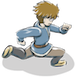
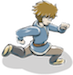
sizes of images of player modified, player and ax starting position  changed with a rounding to 5

diff --git a/game/player.js b/game/player.js
@@ -9,9 +9,9 @@ function Player(gameHeight, gameWidth) { // this --> Player
     this.srcX = 0; // переменные, которые используются для задания координат в графическом файле
     this.srcY = 0;
     this.drawX = 250; // рисование объекта
-    this.drawY = Math.floor(Math.random() * gameHeight);
-    this.width = 75; // проверить после смены рисунка
-    this.height = 77;
+    this.drawY = randomFive(Math.floor(Math.random() * (gameHeight-100)));
+    this.width = 73; // проверить после смены рисунка
+    this.height = 75;
     // часть, связанная с апдэйтом
     this.speed = 5;
     // для управления с клавиатуры - переменные, отвечающие за перемещение объекта
@@ -152,16 +152,18 @@ Player.prototype.update = function(ax, trees, audio) {
     else {
         Tree.treeCanvas.style.zIndex = 1;
     }
-    
+
     // Реализация столкновения с топором (победа в игре)
-    if (ax.drawX + ax.width <= 1000) {
+    if (ax.drawX + ax.width <= 1200) {
         keyboardControl = false;
+    }
+    if (ax.drawX + ax.width <= 1190) {
         // this.drawY = ax.drawY;
         if (this.drawY < ax.drawY) {
-            this.drawY += Math.floor(0.2 * this.speed);
+            this.drawY += this.speed;
         }
         else if (this.drawY > ax.drawY) {
-            this.drawY -= Math.ceil(0.2 * this.speed);
+            this.drawY -= this.speed;
         }
         else {
     
@@ -197,3 +199,10 @@ Player.prototype.chooseDirection = function() {
         this.drawX -= this.speed;
     }
 }
+
+// функция округления до 5
+function randomFive(a) {
+    var b = a % 5;
+    b && (a = a - b + 5);
+    return a
+};

diff --git a/game/ax.js b/game/ax.js
@@ -4,8 +4,8 @@ function Ax(gameHeight, gameWidth) {
     // Инициализируем свойства экземпляра:
 
     // часть, связанная с рисованием
-    this.startPosition = 2000;
-    this.randomPosition = Math.floor(Math.random() * gameHeight);
+    this.startPosition = 1200;
+    this.randomPosition = randomFive(Math.floor(Math.random() * (gameHeight-75)));
     this.timerValue = 5000 // время появления топора - изменить
     this.srcX = 0;
     this.srcY = 0;
@@ -39,6 +39,13 @@ function Ax(gameHeight, gameWidth) {
     this.init();
 }
 
+// функция округления до 5
+function randomFive(a) {
+        var b = a % 5;
+        b && (a = a - b + 5);
+        return a
+    };
+    
 // Объявляем методы класса:
 Ax.prototype.init = function () {
     this.axCanvas = document.getElementById('ax');
